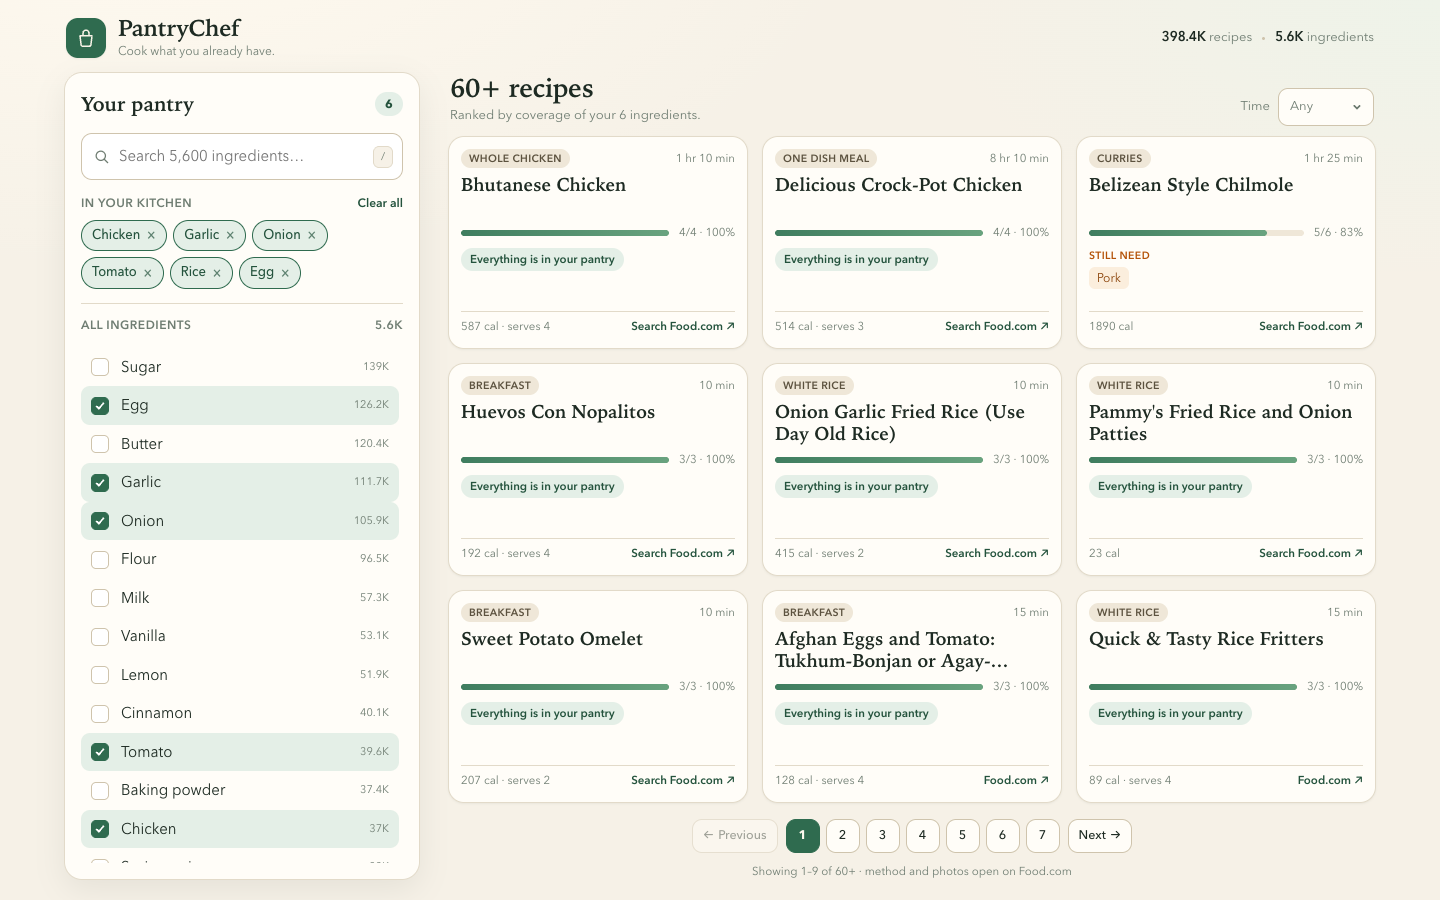
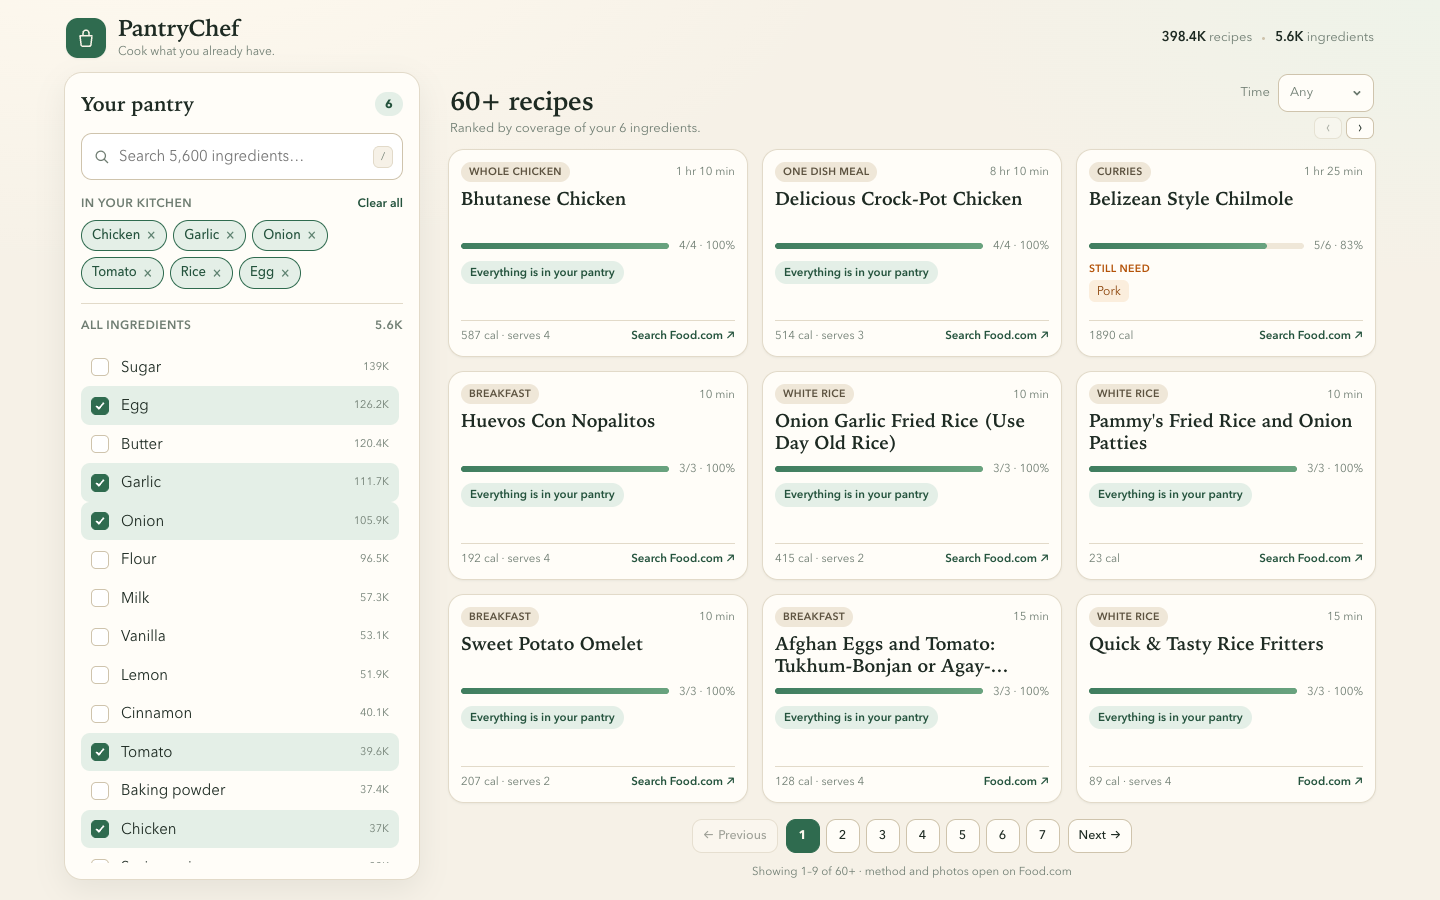
feat(web): add quick page arrows under the time filter
Mirror the pager with minimal previous/next chevrons in the results
header so readers can step pages without travelling to the bottom bar.
They share the same page state, disable at the first and last pages, and
stay hidden when there is only one page.

diff --git a/web/src/App.tsx b/web/src/App.tsx
@@ -230,24 +230,53 @@ export default function App() {
               </p>
             </div>
 
-            <label className="time-filter">
-              <span>Time</span>
-              <select
-                value={maxMinutes ?? ""}
-                onChange={(event) =>
-                  setMaxMinutes(
-                    event.target.value ? Number(event.target.value) : null,
-                  )
-                }
-                disabled={selected.length === 0}
-              >
-                <option value="">Any</option>
-                <option value="30">≤ 30 min</option>
-                <option value="45">≤ 45 min</option>
-                <option value="60">≤ 1 hr</option>
-                <option value="90">≤ 1.5 hr</option>
-              </select>
-            </label>
+            <div className="results-tools">
+              <label className="time-filter">
+                <span>Time</span>
+                <select
+                  value={maxMinutes ?? ""}
+                  onChange={(event) =>
+                    setMaxMinutes(
+                      event.target.value ? Number(event.target.value) : null,
+                    )
+                  }
+                  disabled={selected.length === 0}
+                >
+                  <option value="">Any</option>
+                  <option value="30">≤ 30 min</option>
+                  <option value="45">≤ 45 min</option>
+                  <option value="60">≤ 1 hr</option>
+                  <option value="90">≤ 1.5 hr</option>
+                </select>
+              </label>
+
+              {totalPages > 1 && (
+                <div
+                  className="quick-pager"
+                  role="group"
+                  aria-label="Quick page navigation"
+                >
+                  <button
+                    type="button"
+                    onClick={() => setPage(safePage - 1)}
+                    disabled={safePage === 1}
+                    aria-label="Previous page"
+                    title="Previous page"
+                  >
+                    <span aria-hidden="true">‹</span>
+                  </button>
+                  <button
+                    type="button"
+                    onClick={() => setPage(safePage + 1)}
+                    disabled={safePage === totalPages}
+                    aria-label="Next page"
+                    title="Next page"
+                  >
+                    <span aria-hidden="true">›</span>
+                  </button>
+                </div>
+              )}
+            </div>
           </div>
 
           {selected.length === 0 && (

diff --git a/web/src/styles.css b/web/src/styles.css
@@ -499,6 +499,51 @@ a {
   cursor: not-allowed;
 }
 
+.results-tools {
+  display: flex;
+  flex-direction: column;
+  align-items: flex-end;
+  gap: 5px;
+  flex-shrink: 0;
+}
+
+.quick-pager {
+  display: flex;
+  gap: 4px;
+}
+
+.quick-pager button {
+  display: inline-flex;
+  align-items: center;
+  justify-content: center;
+  width: 28px;
+  height: 22px;
+  padding: 0 0 1px;
+  border: 1px solid var(--line-strong);
+  border-radius: 7px;
+  background: var(--panel);
+  color: var(--ink);
+  font-size: 15px;
+  line-height: 1;
+  transition: background 0.15s, border-color 0.15s, color 0.15s;
+}
+
+.quick-pager button:hover:not(:disabled) {
+  border-color: var(--green);
+  background: var(--green-soft);
+  color: var(--green-dark);
+}
+
+.quick-pager button:disabled {
+  opacity: 0.35;
+  cursor: not-allowed;
+}
+
+.quick-pager button:focus-visible {
+  outline: 2px solid var(--green-soft);
+  outline-offset: 1px;
+}
+
 .card-grid {
   display: grid;
   grid-template-columns: repeat(auto-fill, minmax(250px, 1fr));
